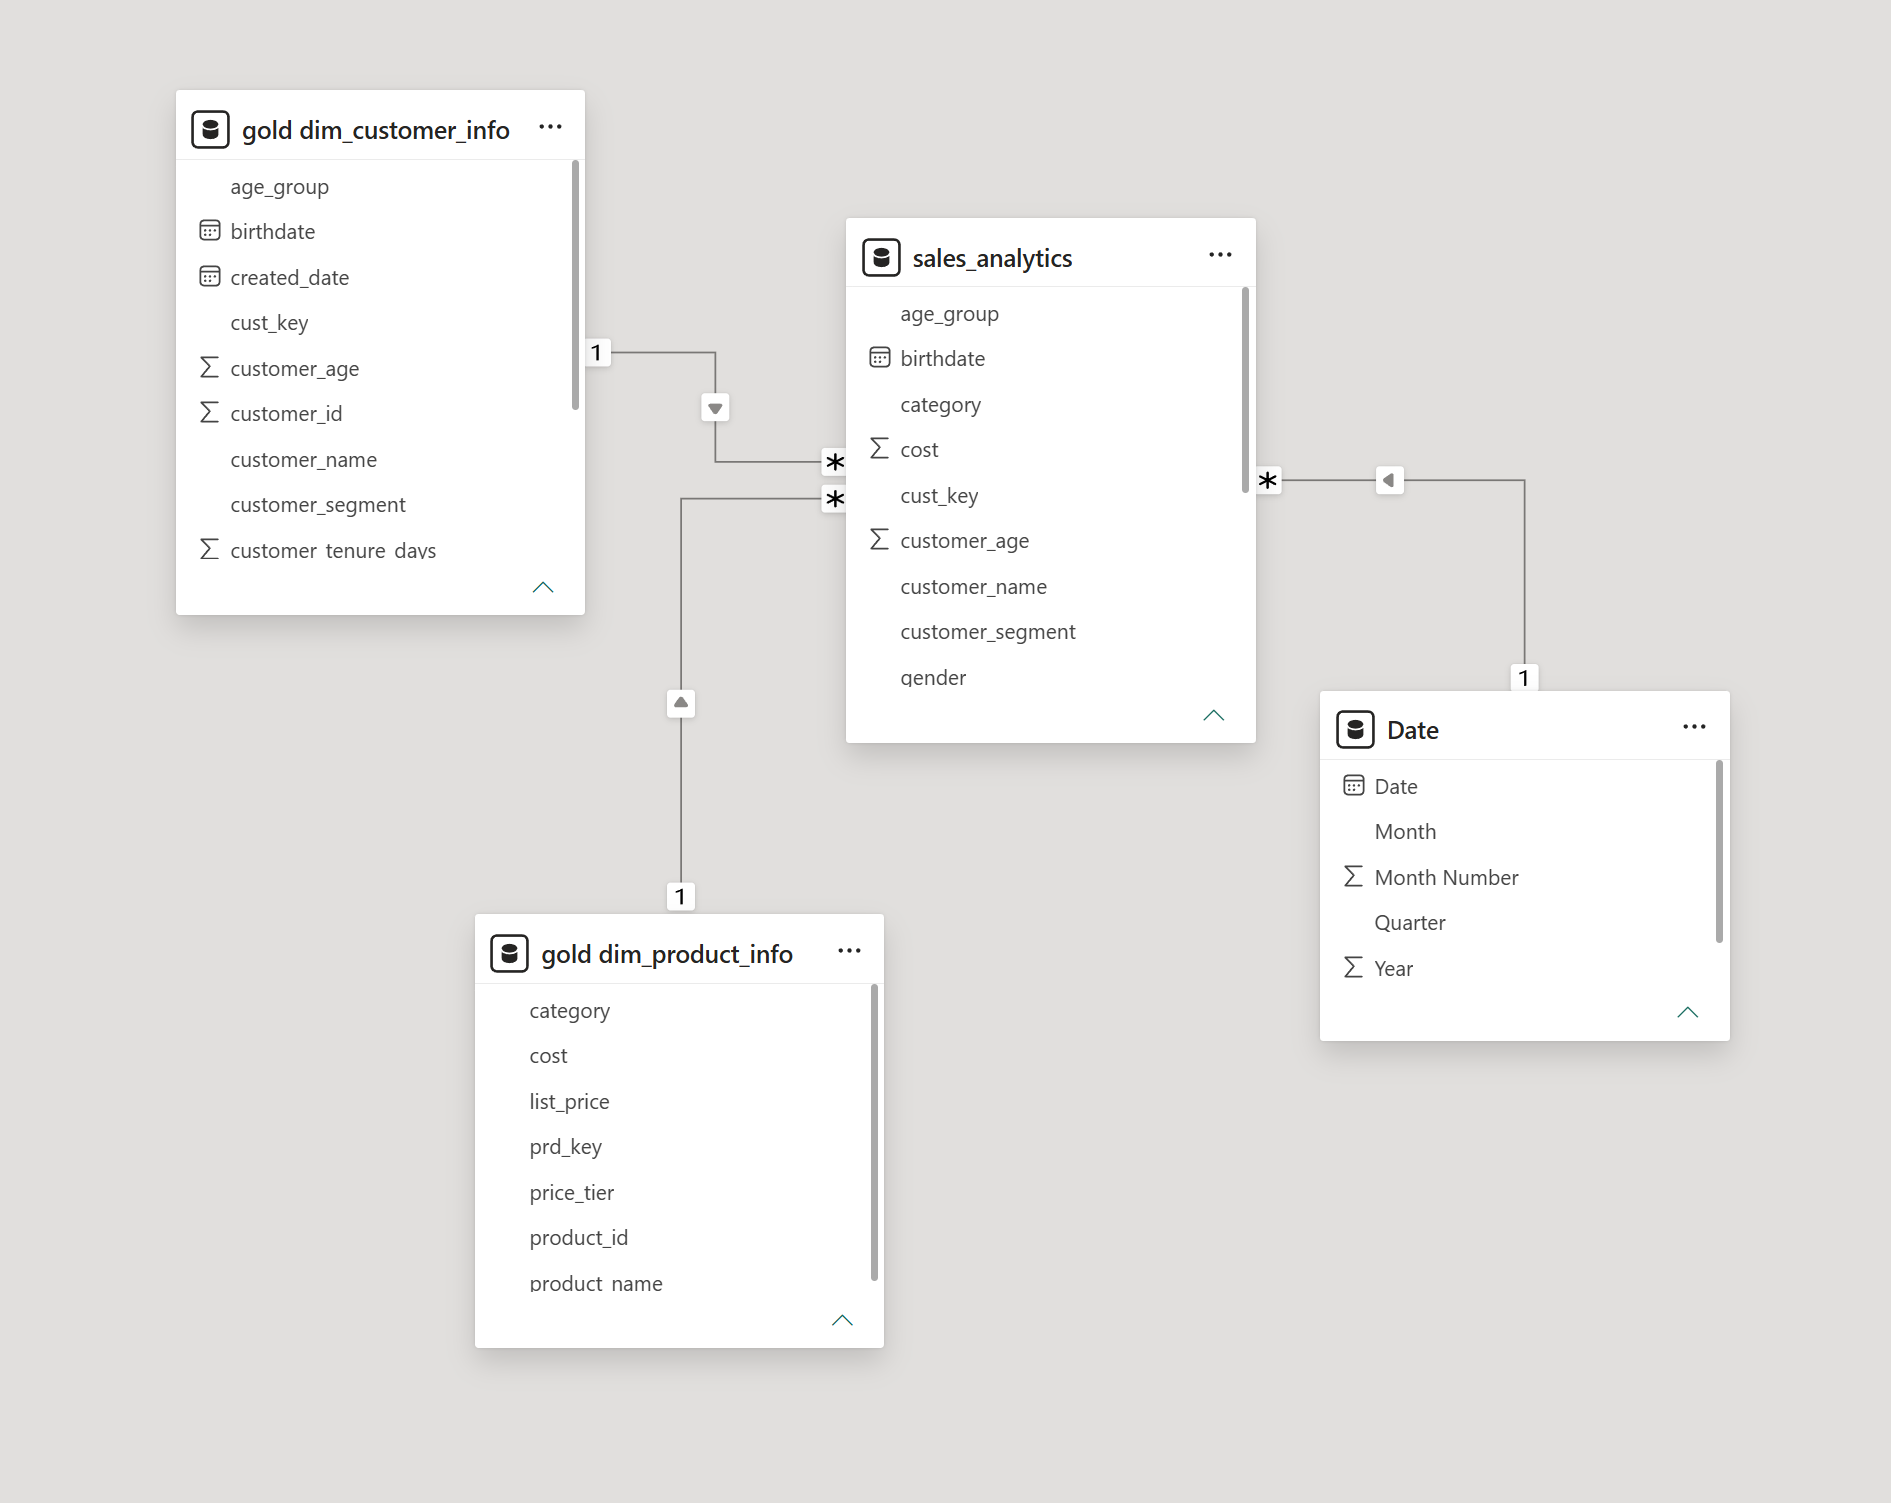
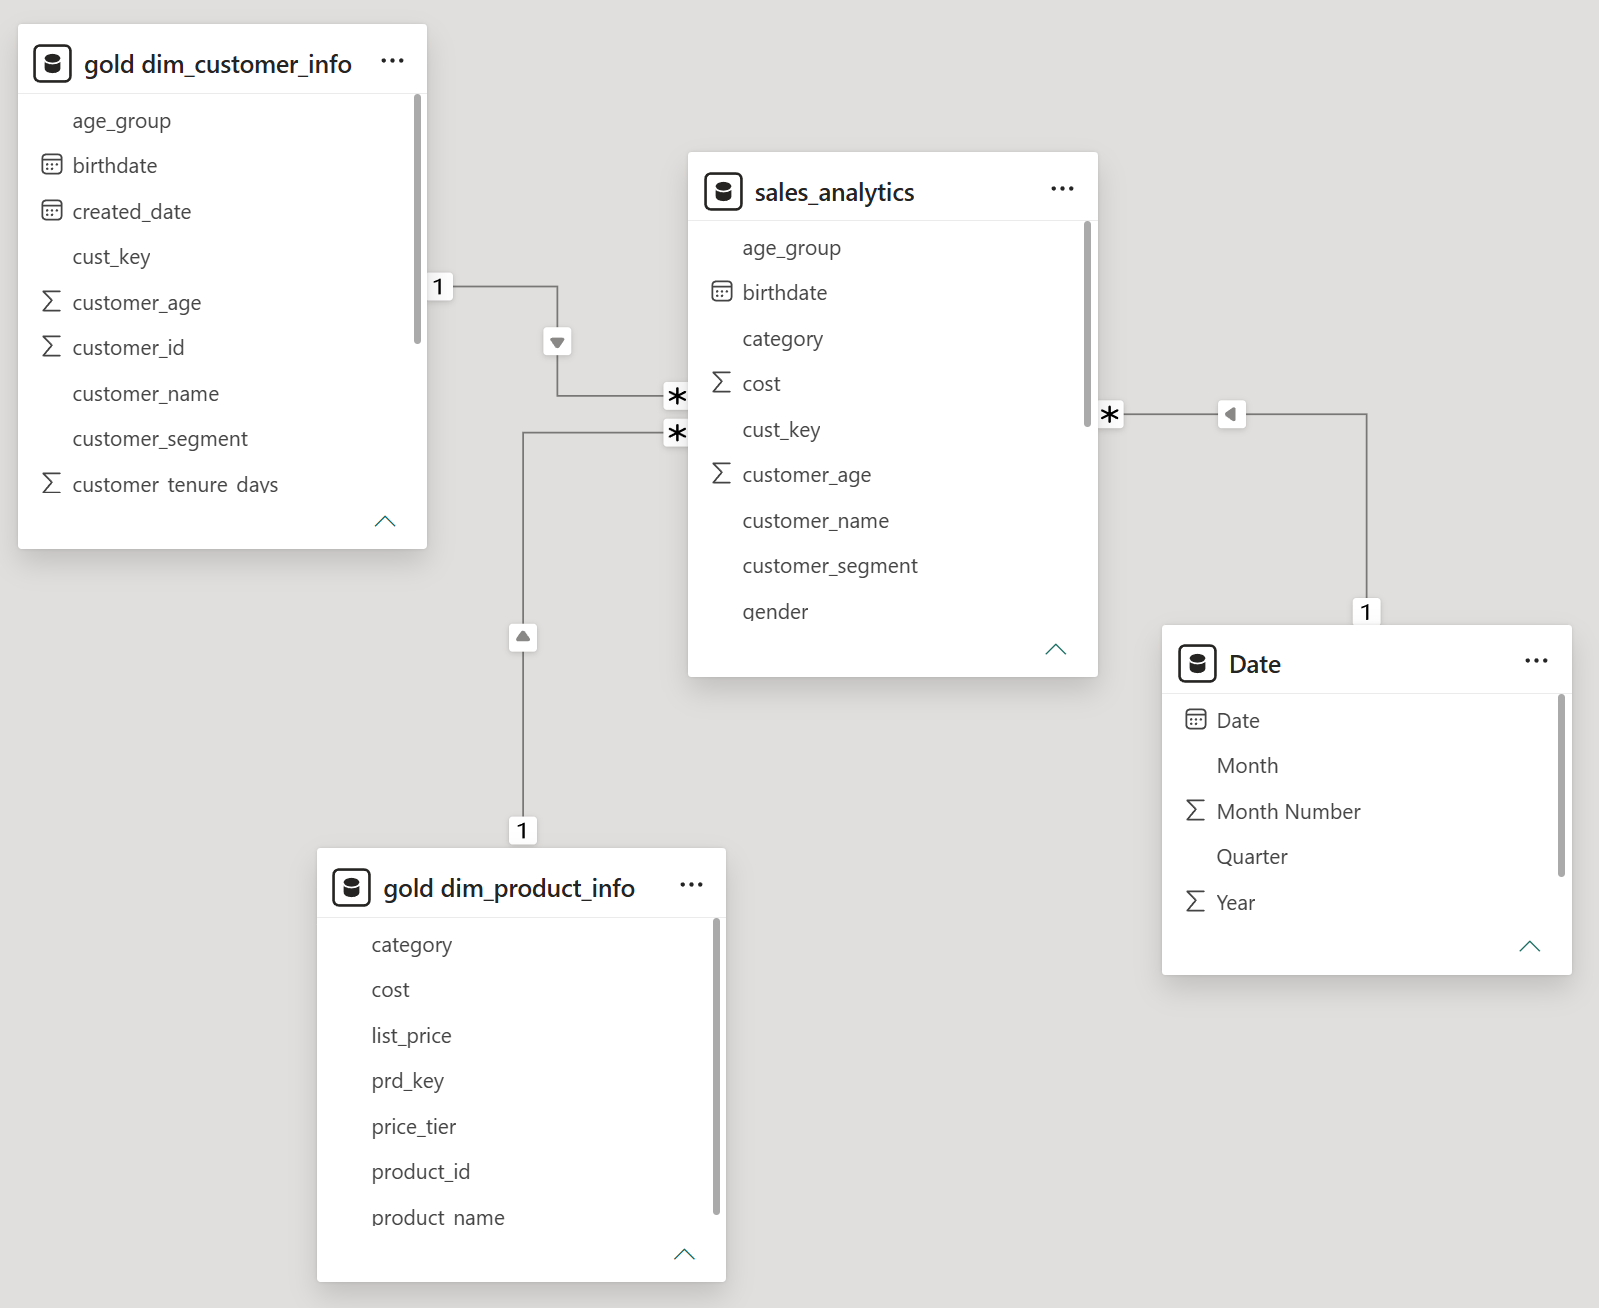
made changes to README

Changed region(s): [[0.0, 0.0, 1.0, 0.7645], [0.1839, 0.581, 0.4903, 1.0], [0.3064, 0.4587, 0.3677, 0.5199]]

diff --git a/README.md b/README.md
@@ -113,17 +113,17 @@ Include these definitions in the semantic model to keep visual calculations thin
 
 Source files live in `data/crm/` and `data/erp/`. Bronze tables hold the raw customer, product, sales, demographics, and location data. Silver tables create the cleaned customer dimension, product dimension, and order fact table. Gold exposes the reporting view `gold.sales_analytics` for Power BI and validation.
 
-## Silver Data Quality Rules
+## Silver Data Quality
 
-The Silver layer enforces explicit production-grade quality rules so the Gold view is auditable and repeatable:
+The Silver layer applies a few clear checks so the Gold view is reliable and easy to audit. Here are simple, concrete examples:
 
-- Idempotence: transformations are transaction-safe and designed to be re-run without producing duplicates (staging truncation + `BEGIN TRAN` / `TRY...CATCH` with explicit `THROW` on failure).
-- Deduplication: deterministic windowing (`ROW_NUMBER() OVER (PARTITION BY <business_key> ORDER BY last_modified DESC)`) retains the latest active record per entity.
-- Referential Integrity: fact tables are validated to ensure `cust_key` and `prd_key` reference existing dimension keys (DQ checks flag orphaned keys).
-- String normalization: trimming, case normalization, and deterministic mapping of common variants (e.g., `M|Male|MALE` → `Male`).
-- Business constraints: numeric ranges and nullability checks (prices >= 0, qty > 0) to catch malformed source rows before they reach Gold.
+- Re-run safe: running the pipeline again won't create duplicate rows (updates are transactional).
+- Deduplication: keep the most recent record for each business key (so the latest customer data wins).
+- Referential checks: orders must link to an existing customer and product; broken links are flagged.
+- Data hygiene: trim and normalize strings (for example, `M|Male|MALE` → `Male`) and fix casing.
+- Business rules: enforce sensible values (for example, `price >= 0` and `qty > 0`).
 
-These rules are implemented in `sql/02_silver/transform_data.sql` and are surfaced in the automated validation step.
+Full implementation details (transactions, windowing, and the DQ checks) live in `sql/02_silver/transform_data.sql`.
 
 ## Run it locally
 